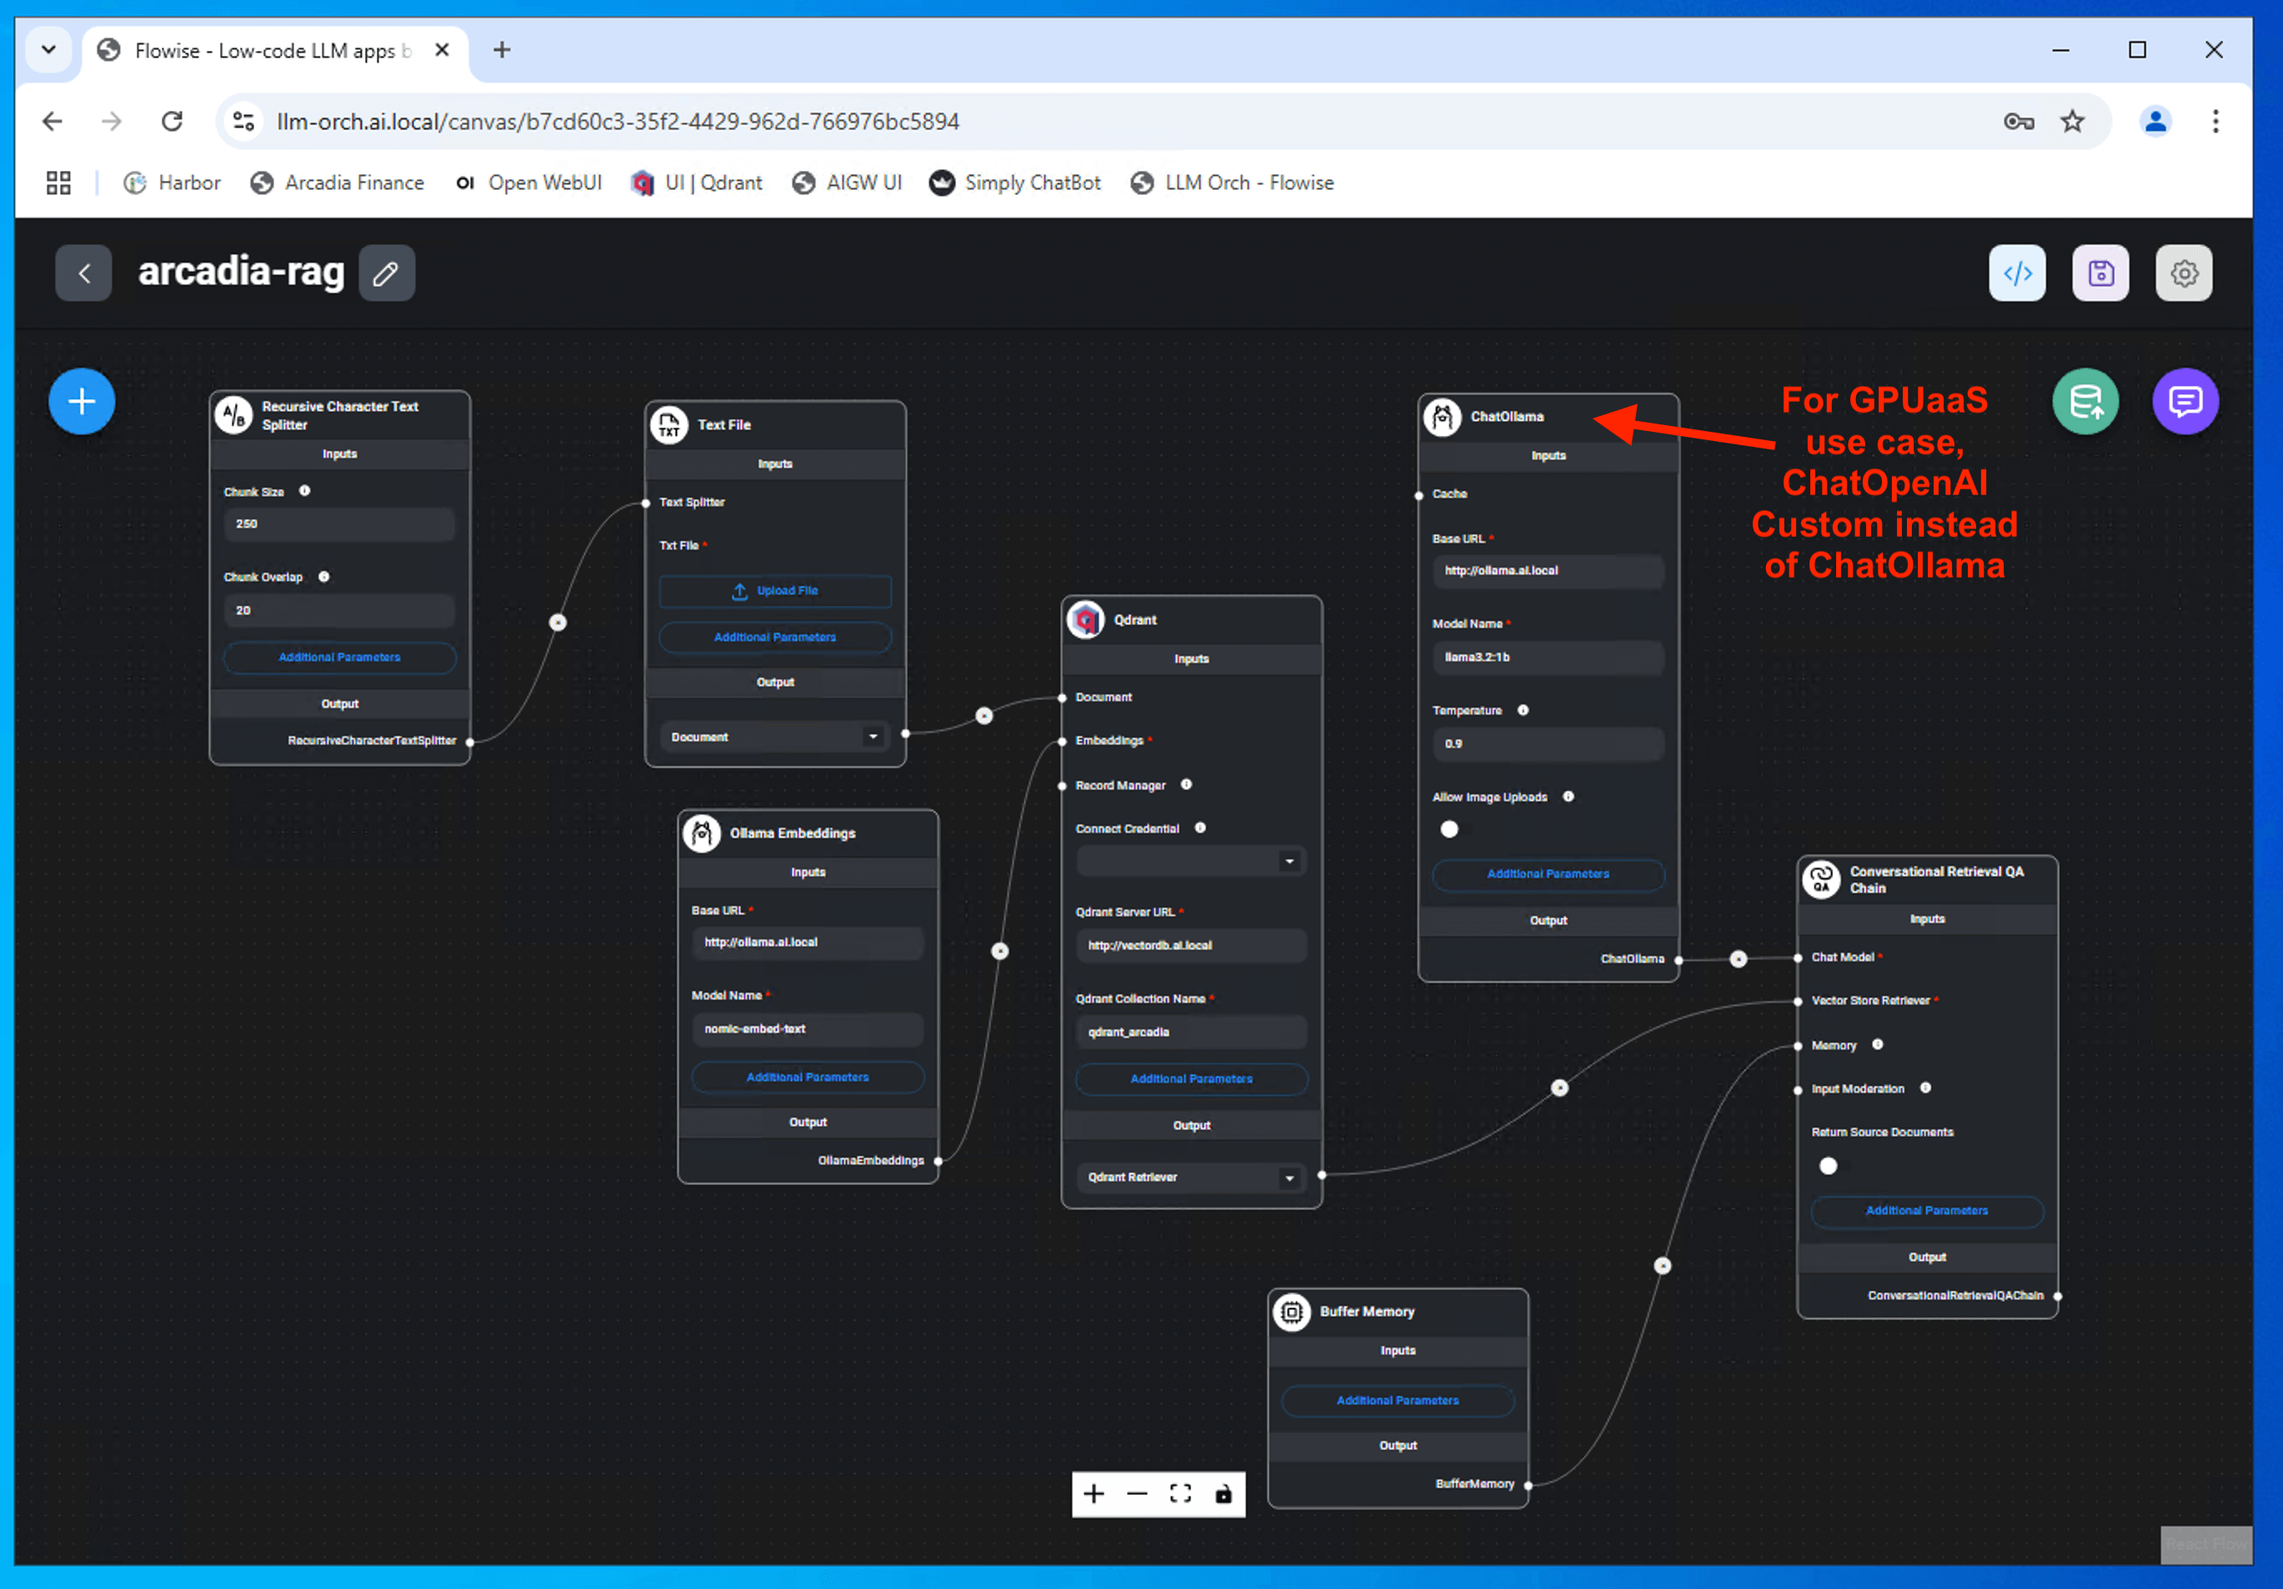
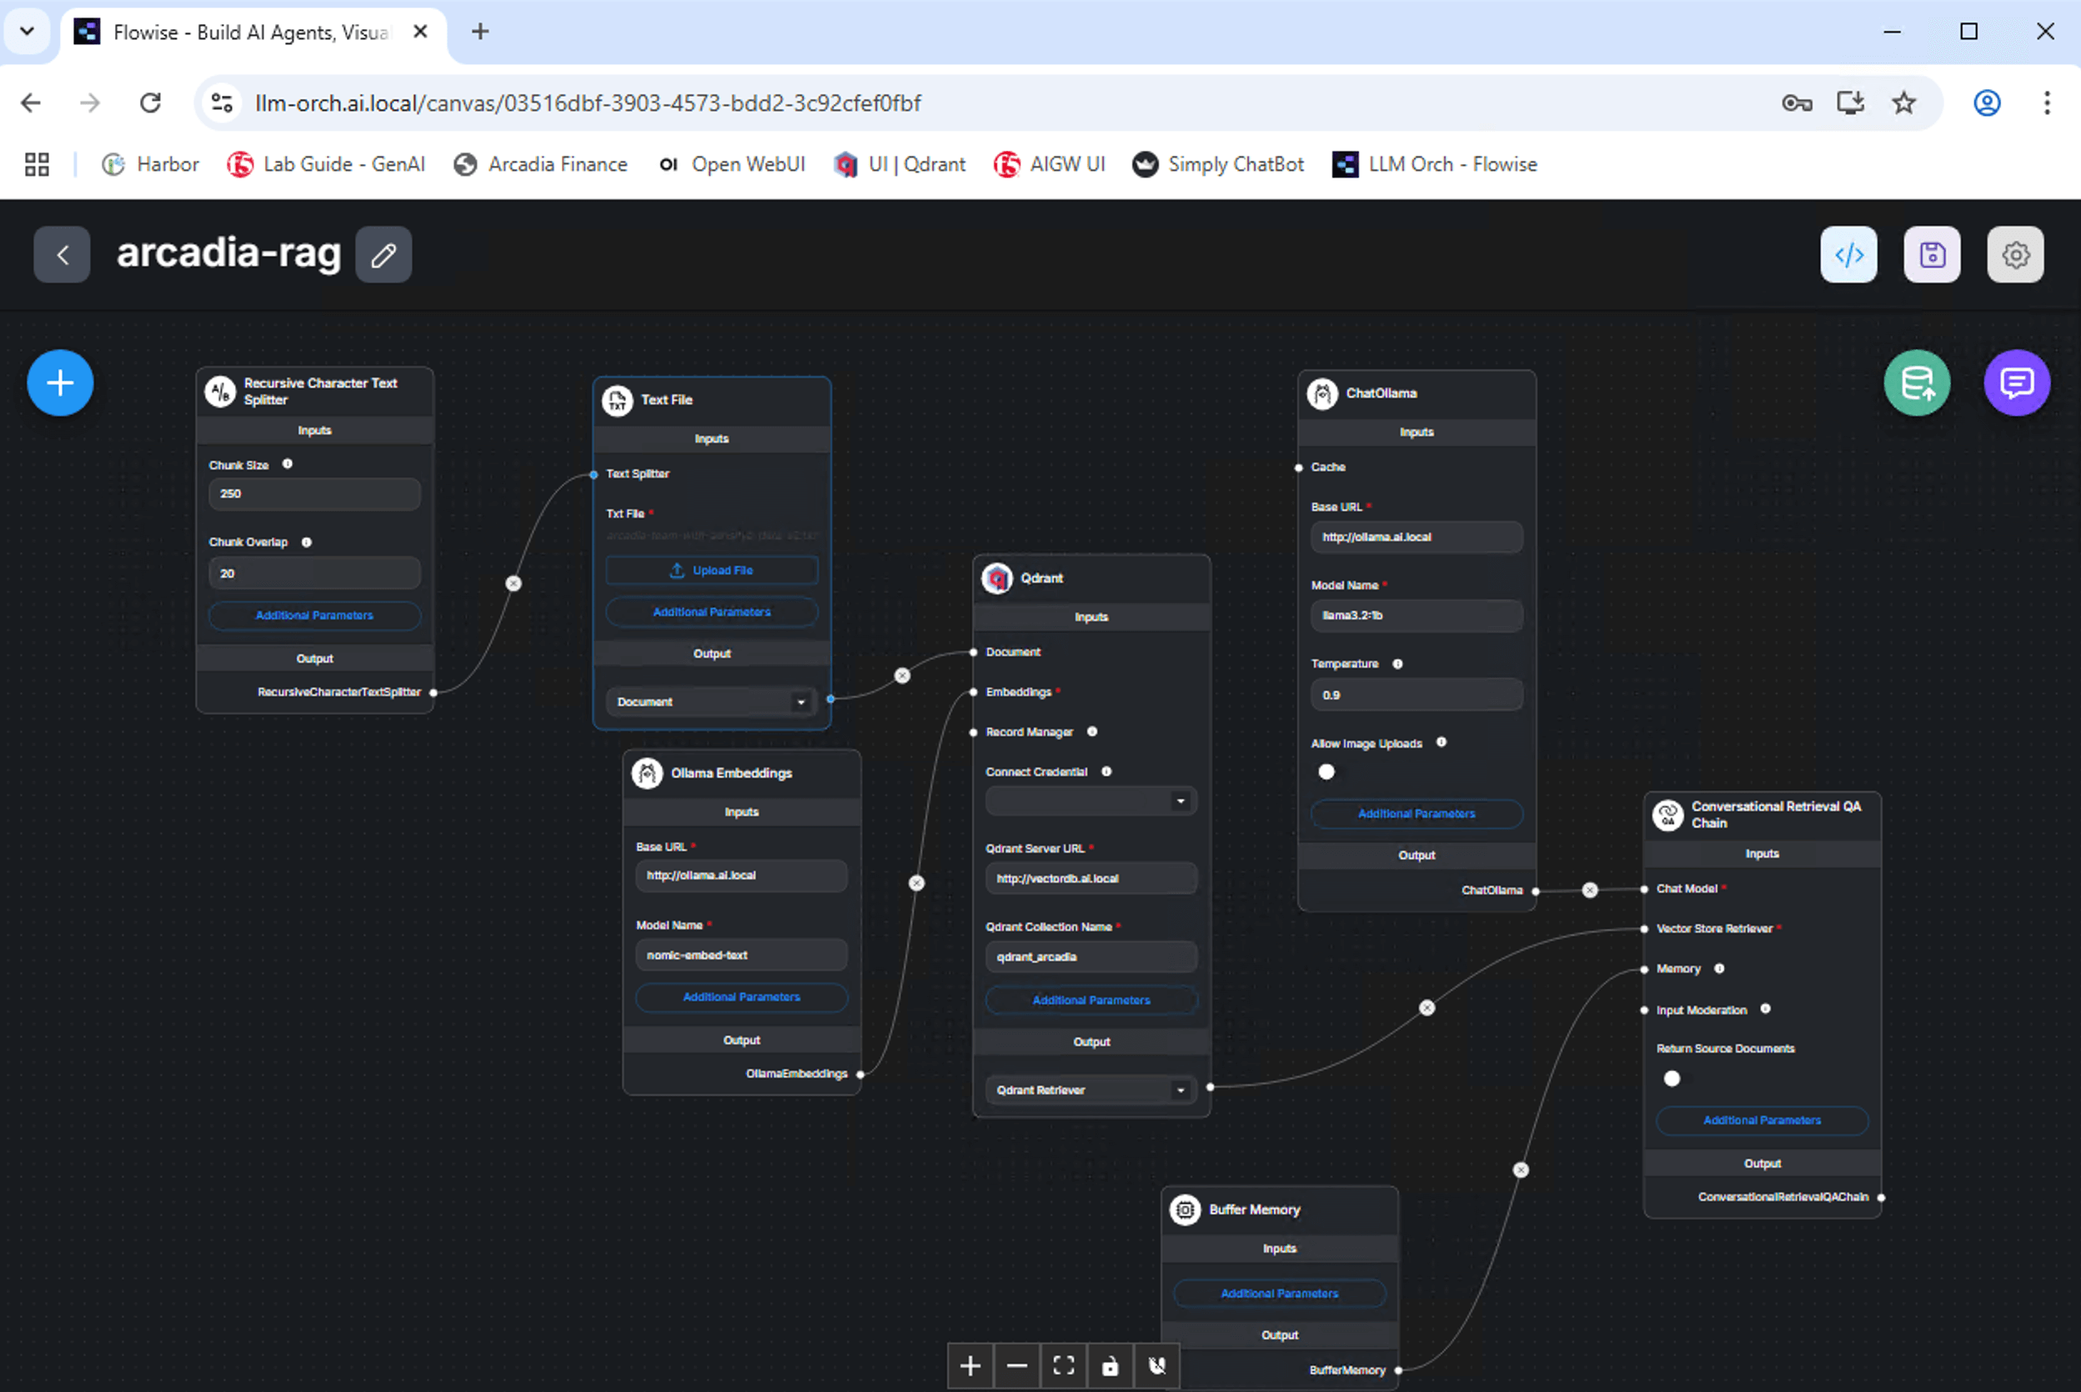
update

diff --git a/docs/class3/class3.rst b/docs/class3/class3.rst
@@ -182,8 +182,6 @@ Repeat the above to download the following LLM model
 +----------------------------+---------------------------------------------+
 | llama3.2:1b                | Meta Llama3.2 (1b)                          |
 +----------------------------+---------------------------------------------+
-| llama3                     | Meta Llama 3 (8b) - only use for GPUaaS     |
-+----------------------------+---------------------------------------------+
 | qwen2.5:1.5b               | Alibaba Cloud Qwen2 (1.5b)                  |
 +----------------------------+---------------------------------------------+
 | hangyang/rakutenai-7b-chat | Rakuten AI (7b)                             |
@@ -312,7 +310,7 @@ values.yaml ::
    image:
      registry: reg.ai.local
      repository: flowiseai/flowise
-     tag: 2.2.3  
+     tag: 3.0.4  
 
    serviceAccount:
      create: true   
@@ -356,10 +354,16 @@ Create an Nginx ingress resource to **expose FlowiseAI/Langchain service** exter
 Confirm that you can login and access to LLM orchestrator (flowise)
 
 .. attention:: 
-   If no login prompt as shown below, likely credential was cache in the browser during the building phase of the lab. You can either do a clear browser cache or safely ignore if it doesn't ask for password.
+   You will asked to register. This username and password will be use to login in future. Use the following suggested credential
+
+   Administrator Email: f5ai@f5.com
+
+   Password: @F5Passw0rd
 
 
 ..  image:: ./_static/class3-15.png
+
+..  image:: ./_static/class3-15-1.png   
 
 Import arcadia RAG chatflow into flowise. Select **Add New**, click **Settings icons** and **Load Chatflow**
 
@@ -369,11 +373,9 @@ A copy of the chatflow located on the jumphost **Documents** directory. Select t
 
 
 .. Note:: 
-   Ensure you choose the right json file according to the environment use cases - CPU or GPUaaS.
+   Ensure you choose the right json file.
 
-   CPU - "*arcadia-rag Chatflow.json*"
-
-   GPUaaS - "*arcadia-rag-gpuaas Chatflow.json*"
+   "*arcadia-rag Chatflow.json*"
 
 
 ..  image:: ./_static/class3-17-1.png
@@ -387,16 +389,6 @@ Save the chatflow (arcadia-rag)
 
 ..  image:: ./_static/class3-18-1.png
 
-.. attention:: 
-   **For GPUaaS ONLY** 
-   
-   Ensure you have a valid GPUaaS API key (if your lab based on GPU) and create as following:-
-
-   ..  image:: ./_static/class3-18-2.png
-
-   ..  image:: ./_static/class3-18-3.png
-
-   
 
 To successfully build the full langchain pipeline / chatflow, you need to upload organization context information into the RAG pipeline. Arcadia context information file located in the **Documents** directory. Under **Text File** node, Click **Upload File**
 
@@ -557,34 +549,6 @@ Here are some of the node/chain used.
 |                                             | storage mechanism for storing/retrieving conversations.               |
 +---------------------------------------------+-----------------------------------------------------------------------+
 
-.. Attention:: 
-
-   **For GPUaaS ONLY**
-
-   +---------------------------------------------+-----------------------------------------------------------------------+
-   | Node / Chain                                | Description                                                           |
-   +=============================================+=======================================================================+
-   |  **ChatOpenAI Custom**                      | Custom/FineTuned model using OpenAI Chat compatible API.              |
-   |                                             |                                                                       |
-   |  Connect Credential                         |                                                                       |
-   |                                             |                                                                       |
-   |     gpuaas-key                              | Ensure you obtains a valid GPUaaS API key                             |                    
-   |                                             |                                                                       |
-   |  Base URL URL:                              |                                                                       |
-   |                                             |                                                                       |
-   |     https://api.gpu.nextcnf.com/v1          | This is the GPUaaS API inference endpoint                             |
-   |                                             |                                                                       |
-   |  Model Name:                                |                                                                       |
-   |                                             |                                                                       |
-   |     llama3                                  | llama3 will be use for the inference. Its 8B parameter model          |
-   |                                             |                                                                       |
-   |  Temperature:                               |                                                                       |
-   |                                             |                                                                       |
-   |      0.9                                    |                                                                       |
-   +---------------------------------------------+-----------------------------------------------------------------------+
-
-
-
 
 Vectorize Proprietary Data
 ~~~~~~~~~~~~~~~~~~~~~~~~~~
@@ -641,7 +605,7 @@ Input on the chat box
 
 
 .. attention:: 
-   If you are using CPU for inference. Hence, expect some delay in the response.
+   Since you are using CPU for inference. Hence, expect some delay in the response.
 
 
 Sample RAG Chatbot conversation
